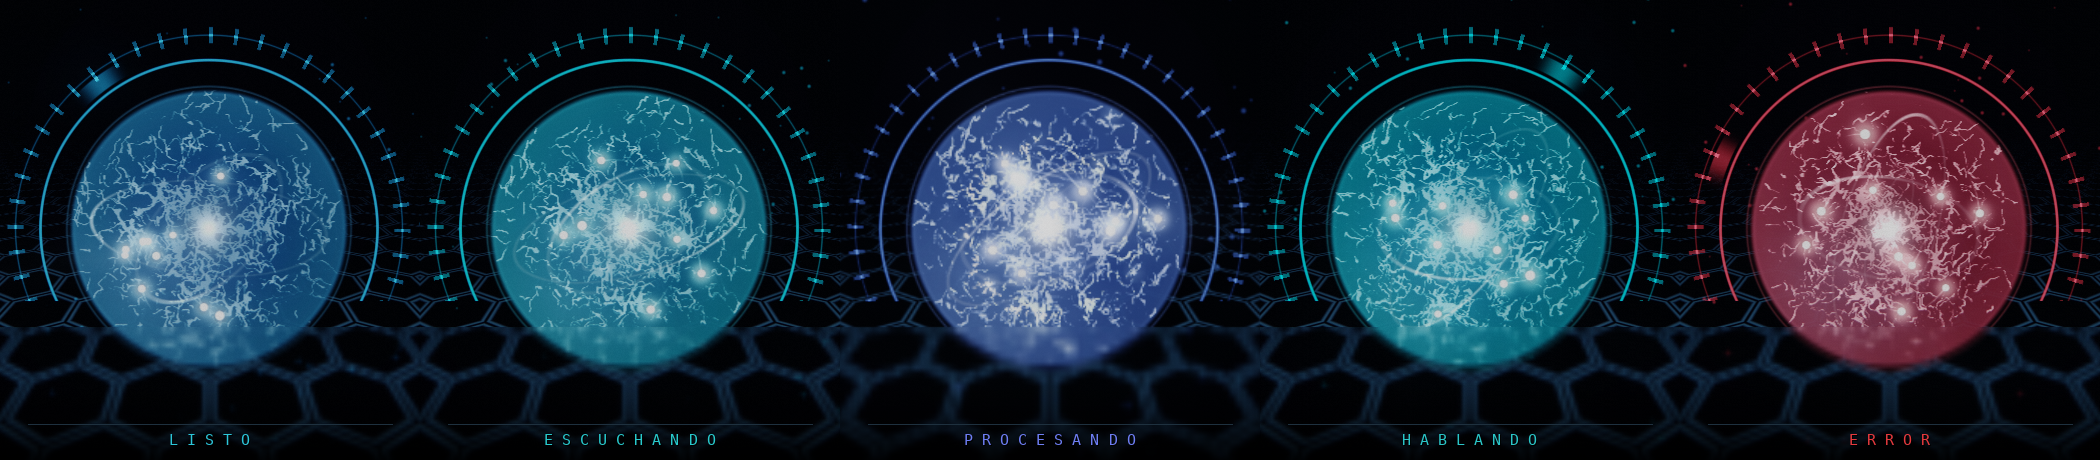
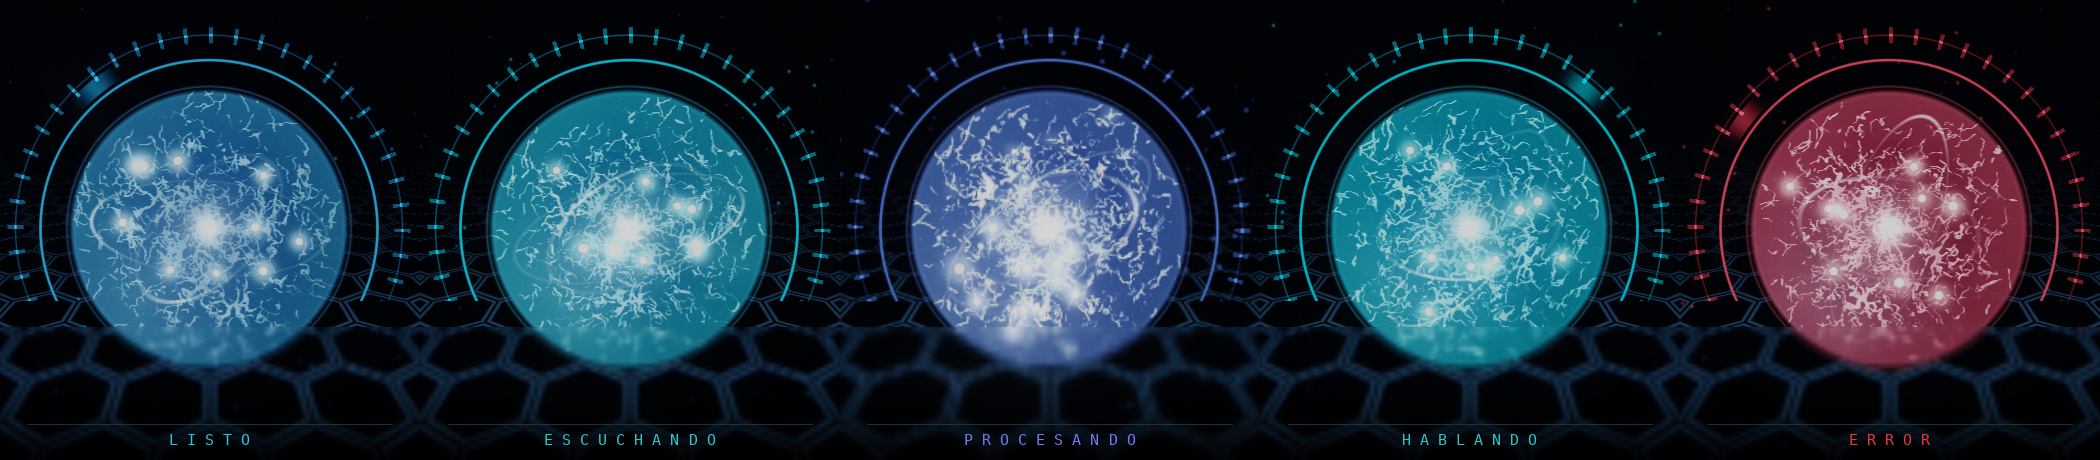
fix(hud-pro): mover los neutrones solo cuando Jarvis interactua

diff --git a/hud_pro/gpu/stage.py b/hud_pro/gpu/stage.py
@@ -136,6 +136,10 @@ class HoloStage(QtOpenGLWidgets.QOpenGLWidget if QtOpenGLWidgets else object):
         # los acelera durante ~1s aunque el brillo del orbe ya se haya
         # apagado. Así el movimiento se nota de verdad al teclear/enviar.
         self._neutron_kick = 0.0
+        # fase acumulada: en reposo NO avanza, así que las partículas
+        # quedan suspendidas hasta que Jarvis interactúa de verdad.
+        self._neutron_flow = 0.0
+        self._neutron_motion = 0.0
         self._state = OrbState.IDLE
         self._paused = False
         self._init_ok = False
@@ -298,6 +302,33 @@ class HoloStage(QtOpenGLWidgets.QOpenGLWidget if QtOpenGLWidgets else object):
         else:
             base = 0.18
         return max(0.0, min(1.6, base + self._activity_boost))
+
+    def _neutron_speed(self) -> float:
+        """Velocidad de los neutrones: cero en reposo, alta al interactuar.
+
+        La posición no depende directamente del reloj: `_advance_neutrons`
+        acumula una fase sólo mientras hay interacción real. En IDLE sin
+        ningún pulso la fase se congela; al teclear/enviar o mientras el
+        orbe está escuchando/hablando/pensando, avanza."""
+        if self._state is OrbState.THINKING:
+            base = 2.45
+        elif self._state is OrbState.LISTENING:
+            base = 0.75 + 1.40 * self._energy
+        elif self._state is OrbState.SPEAKING:
+            base = 0.80 + 1.40 * self._energy
+        elif self._state is OrbState.ERROR:
+            base = 1.20
+        else:
+            base = 0.0
+        return base + 4.20 * self._neutron_kick
+
+    def _advance_neutrons(self, dt: float) -> None:
+        if self._reduced_motion:
+            self._neutron_motion = 0.0
+            return
+        speed = self._neutron_speed()
+        self._neutron_motion = min(1.0, speed / 0.90)
+        self._neutron_flow += dt * speed
 
     def set_energy(self, energy: float) -> None:
         e = max(0.0, min(1.0, float(energy)))
@@ -672,6 +703,7 @@ class HoloStage(QtOpenGLWidgets.QOpenGLWidget if QtOpenGLWidgets else object):
         # el pulso del interior se apaga solo (tecleo/envío/respuesta)
         self._activity_boost = max(0.0, self._activity_boost - dt * 2.2)
         self._neutron_kick = max(0.0, self._neutron_kick - dt * 0.65)
+        self._advance_neutrons(dt)
 
         gl_started = False
         if self._timer_query is not None:
@@ -972,6 +1004,8 @@ class HoloStage(QtOpenGLWidgets.QOpenGLWidget if QtOpenGLWidgets else object):
         p.set_uniform("u_energy", self._energy)
         p.set_uniform("u_activity", self._orb_activity())
         p.set_uniform("u_neutronKick", self._neutron_kick)
+        p.set_uniform("u_neutronFlow", self._neutron_flow)
+        p.set_uniform("u_neutronMotion", self._neutron_motion)
         p.set_uniform("u_tint", *tint)
         p.set_uniform("u_tint2", *tint2)
         p.set_uniform("u_accent", *accent)

diff --git a/test/test_hud_pro_gpu.py b/test/test_hud_pro_gpu.py
@@ -519,6 +519,42 @@ def test_pulse_activity_arms_the_neutron_kick():
     assert stage._neutron_kick == 0.7
 
 
+def test_neutrons_freeze_in_idle_and_move_only_on_interaction():
+    """En reposo la fase no avanza: los neutrones quedan suspendidos.
+
+    El reloj global (`u_time`) sigue latiendo para el plasma, pero la
+    posición de los neutrones usa una fase aparte que sólo se alimenta de
+    interacción real. Sin esto giraban solos en IDLE y dejaban de sentirse
+    como una reacción a Jarvis."""
+    from hud_pro.gpu.stage import HoloStage
+    from hud_pro.state import OrbState
+
+    class _Stage:
+        _neutron_speed = HoloStage._neutron_speed
+        _state = OrbState.IDLE
+        _energy = 0.0
+        _neutron_kick = 0.0
+        _neutron_flow = 0.0
+        _neutron_motion = 0.0
+        _reduced_motion = False
+
+    stage = _Stage()
+    HoloStage._advance_neutrons(stage, 0.25)
+    assert stage._neutron_flow == 0.0
+    assert stage._neutron_motion == 0.0
+
+    stage._neutron_kick = 0.7
+    HoloStage._advance_neutrons(stage, 0.25)
+    assert stage._neutron_flow > 0.0
+    assert stage._neutron_motion == 1.0
+
+    stage._neutron_kick = 0.0
+    stage._state = OrbState.THINKING
+    stage._neutron_flow = 0.0
+    HoloStage._advance_neutrons(stage, 0.25)
+    assert stage._neutron_flow > 0.0
+
+
 def test_fbo_filter_helper_uses_bilinear_and_clamp_to_edge():
     """Las texturas de FBO nacen con GL_NEAREST en esta build de Qt; los
     pases reducidos (bloom/rayos/escena) asumen GL_LINEAR. Sin este filtro
